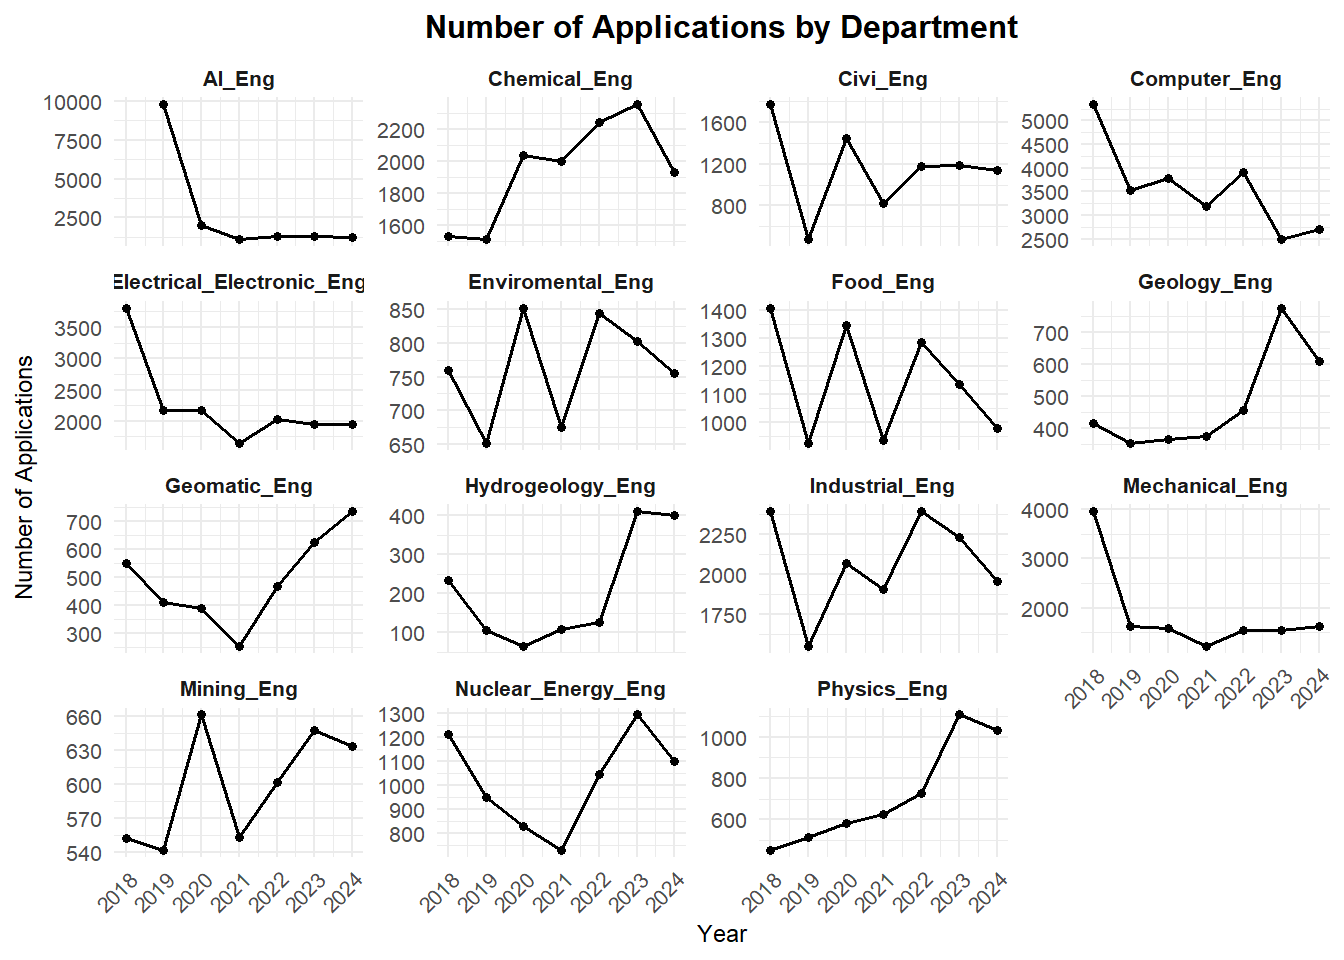
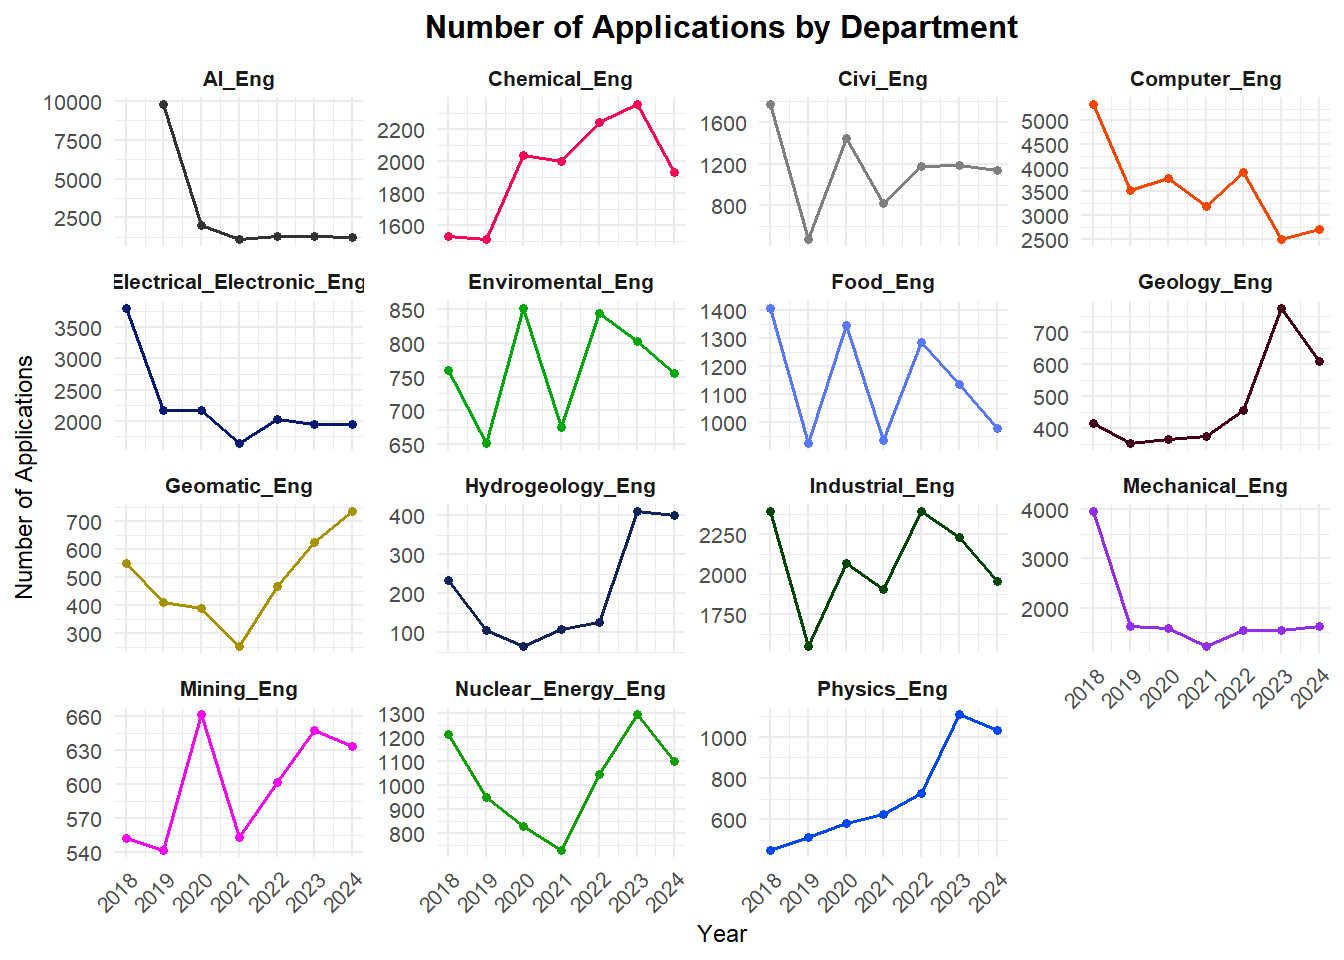
renklendirdim

diff --git a/docs/analysis.html b/docs/analysis.html
@@ -179,11 +179,14 @@ pre > code.sourceCode > span > a:first-child::before { text-decoration: underlin
 
 <p>About this site</p>
 <div class="cell">
+<details class="code-fold">
+<summary>Code</summary>
 <div class="sourceCode cell-code" id="cb1"><pre class="sourceCode r code-with-copy"><code class="sourceCode r"><span id="cb1-1"><a href="#cb1-1" aria-hidden="true" tabindex="-1"></a><span class="co"># Load necessary libraries</span></span>
 <span id="cb1-2"><a href="#cb1-2" aria-hidden="true" tabindex="-1"></a><span class="co"># Gerekli kütüphaneleri yükle</span></span>
 <span id="cb1-3"><a href="#cb1-3" aria-hidden="true" tabindex="-1"></a><span class="fu">library</span>(ggplot2)</span>
 <span id="cb1-4"><a href="#cb1-4" aria-hidden="true" tabindex="-1"></a><span class="fu">library</span>(readr)</span>
 <span id="cb1-5"><a href="#cb1-5" aria-hidden="true" tabindex="-1"></a><span class="fu">library</span>(dplyr)</span></code><button title="Copy to Clipboard" class="code-copy-button"><i class="bi"></i></button></pre></div>
+</details>
 <div class="cell-output cell-output-stderr">
 <pre><code>
 Attaching package: 'dplyr'</code></pre>
@@ -198,7 +201,10 @@ Attaching package: 'dplyr'</code></pre>
 
     intersect, setdiff, setequal, union</code></pre>
 </div>
+<details class="code-fold">
+<summary>Code</summary>
 <div class="sourceCode cell-code" id="cb5"><pre class="sourceCode r code-with-copy"><code class="sourceCode r"><span id="cb5-1"><a href="#cb5-1" aria-hidden="true" tabindex="-1"></a><span class="fu">library</span>(scales) <span class="co"># Logaritmik dönüşüm için</span></span></code><button title="Copy to Clipboard" class="code-copy-button"><i class="bi"></i></button></pre></div>
+</details>
 <div class="cell-output cell-output-stderr">
 <pre><code>
 Attaching package: 'scales'</code></pre>
@@ -208,8 +214,11 @@ Attaching package: 'scales'</code></pre>
 
     col_factor</code></pre>
 </div>
+<details class="code-fold">
+<summary>Code</summary>
 <div class="sourceCode cell-code" id="cb8"><pre class="sourceCode r code-with-copy"><code class="sourceCode r"><span id="cb8-1"><a href="#cb8-1" aria-hidden="true" tabindex="-1"></a><span class="co"># Veriyi yükle</span></span>
 <span id="cb8-2"><a href="#cb8-2" aria-hidden="true" tabindex="-1"></a>data <span class="ot">&lt;-</span> <span class="fu">read_csv</span>(<span class="st">"ya_veri.csv"</span>)</span></code><button title="Copy to Clipboard" class="code-copy-button"><i class="bi"></i></button></pre></div>
+</details>
 <div class="cell-output cell-output-stderr">
 <pre><code>Rows: 105 Columns: 15</code></pre>
 </div>
@@ -222,6 +231,8 @@ dbl (14): year, capacity, percentage_women, percentage_men, valedictorian, r...
 ℹ Use `spec()` to retrieve the full column specification for this data.
 ℹ Specify the column types or set `show_col_types = FALSE` to quiet this message.</code></pre>
 </div>
+<details class="code-fold">
+<summary>Code</summary>
 <div class="sourceCode cell-code" id="cb11"><pre class="sourceCode r code-with-copy"><code class="sourceCode r"><span id="cb11-1"><a href="#cb11-1" aria-hidden="true" tabindex="-1"></a><span class="co"># Veriyi filtrele ve sıralama bilgilerini numeric olarak düzenle</span></span>
 <span id="cb11-2"><a href="#cb11-2" aria-hidden="true" tabindex="-1"></a>data_filtered <span class="ot">&lt;-</span> data <span class="sc">%&gt;%</span></span>
 <span id="cb11-3"><a href="#cb11-3" aria-hidden="true" tabindex="-1"></a>  <span class="fu">select</span>(department, year, ranking) <span class="sc">%&gt;%</span></span>
@@ -279,6 +290,7 @@ dbl (14): year, capacity, percentage_women, percentage_men, valedictorian, r...
 <span id="cb11-55"><a href="#cb11-55" aria-hidden="true" tabindex="-1"></a>    <span class="at">plot.margin =</span> <span class="fu">margin</span>(<span class="dv">5</span>, <span class="dv">5</span>, <span class="dv">5</span>, <span class="dv">5</span>)  <span class="co"># Reduce plot margins</span></span>
 <span id="cb11-56"><a href="#cb11-56" aria-hidden="true" tabindex="-1"></a>  ) <span class="sc">+</span></span>
 <span id="cb11-57"><a href="#cb11-57" aria-hidden="true" tabindex="-1"></a>  <span class="fu">scale_x_continuous</span>(<span class="at">breaks =</span> <span class="fu">unique</span>(data_filtered<span class="sc">$</span>year))  <span class="co"># Ensure all years are shown</span></span></code><button title="Copy to Clipboard" class="code-copy-button"><i class="bi"></i></button></pre></div>
+</details>
 <div class="cell-output-display">
 <div>
 <figure class="figure">
@@ -288,6 +300,8 @@ dbl (14): year, capacity, percentage_women, percentage_men, valedictorian, r...
 </div>
 </div>
 <div class="cell">
+<details class="code-fold">
+<summary>Code</summary>
 <div class="sourceCode cell-code" id="cb12"><pre class="sourceCode r code-with-copy"><code class="sourceCode r"><span id="cb12-1"><a href="#cb12-1" aria-hidden="true" tabindex="-1"></a><span class="co"># Gerekli kütüphaneleri yükle</span></span>
 <span id="cb12-2"><a href="#cb12-2" aria-hidden="true" tabindex="-1"></a><span class="fu">library</span>(ggplot2)</span>
 <span id="cb12-3"><a href="#cb12-3" aria-hidden="true" tabindex="-1"></a><span class="fu">library</span>(readr)</span>
@@ -296,6 +310,7 @@ dbl (14): year, capacity, percentage_women, percentage_men, valedictorian, r...
 <span id="cb12-6"><a href="#cb12-6" aria-hidden="true" tabindex="-1"></a></span>
 <span id="cb12-7"><a href="#cb12-7" aria-hidden="true" tabindex="-1"></a><span class="co"># Veriyi yükle</span></span>
 <span id="cb12-8"><a href="#cb12-8" aria-hidden="true" tabindex="-1"></a>data <span class="ot">&lt;-</span> <span class="fu">read_csv</span>(<span class="st">"ya_veri.csv"</span>)</span></code><button title="Copy to Clipboard" class="code-copy-button"><i class="bi"></i></button></pre></div>
+</details>
 <div class="cell-output cell-output-stderr">
 <pre><code>Rows: 105 Columns: 15
 ── Column specification ────────────────────────────────────────────────────────
@@ -306,6 +321,8 @@ dbl (14): year, capacity, percentage_women, percentage_men, valedictorian, r...
 ℹ Use `spec()` to retrieve the full column specification for this data.
 ℹ Specify the column types or set `show_col_types = FALSE` to quiet this message.</code></pre>
 </div>
+<details class="code-fold">
+<summary>Code</summary>
 <div class="sourceCode cell-code" id="cb14"><pre class="sourceCode r code-with-copy"><code class="sourceCode r"><span id="cb14-1"><a href="#cb14-1" aria-hidden="true" tabindex="-1"></a><span class="co"># Veriyi filtrele ve sıralama bilgilerini numeric olarak düzenle</span></span>
 <span id="cb14-2"><a href="#cb14-2" aria-hidden="true" tabindex="-1"></a>data_filtered <span class="ot">&lt;-</span> data <span class="sc">%&gt;%</span></span>
 <span id="cb14-3"><a href="#cb14-3" aria-hidden="true" tabindex="-1"></a>  <span class="fu">select</span>(department, year, ranking) <span class="sc">%&gt;%</span></span>
@@ -362,6 +379,7 @@ dbl (14): year, capacity, percentage_women, percentage_men, valedictorian, r...
 <span id="cb14-54"><a href="#cb14-54" aria-hidden="true" tabindex="-1"></a>    <span class="at">plot.margin =</span> <span class="fu">margin</span>(<span class="dv">5</span>, <span class="dv">5</span>, <span class="dv">5</span>, <span class="dv">5</span>)  <span class="co"># Reduce plot margins</span></span>
 <span id="cb14-55"><a href="#cb14-55" aria-hidden="true" tabindex="-1"></a>  ) <span class="sc">+</span></span>
 <span id="cb14-56"><a href="#cb14-56" aria-hidden="true" tabindex="-1"></a>  <span class="fu">scale_x_continuous</span>(<span class="at">breaks =</span> <span class="fu">unique</span>(data<span class="sc">$</span>year))  <span class="co"># Ensure all years are shown</span></span></code><button title="Copy to Clipboard" class="code-copy-button"><i class="bi"></i></button></pre></div>
+</details>
 <div class="cell-output cell-output-stderr">
 <pre><code>Warning: Removed 1 row containing missing values or values outside the scale range
 (`geom_line()`).</code></pre>
@@ -379,10 +397,16 @@ dbl (14): year, capacity, percentage_women, percentage_men, valedictorian, r...
 </div>
 </div>
 <div class="cell">
+<details class="code-fold">
+<summary>Code</summary>
 <div class="sourceCode cell-code" id="cb17"><pre class="sourceCode r code-with-copy"><code class="sourceCode r"><span id="cb17-1"><a href="#cb17-1" aria-hidden="true" tabindex="-1"></a><span class="fu">library</span>(ggplot2)</span>
-<span id="cb17-2"><a href="#cb17-2" aria-hidden="true" tabindex="-1"></a><span class="fu">library</span>(scales) <span class="co"># For formatting</span></span>
-<span id="cb17-3"><a href="#cb17-3" aria-hidden="true" tabindex="-1"></a><span class="co"># Veriyi yükle</span></span>
-<span id="cb17-4"><a href="#cb17-4" aria-hidden="true" tabindex="-1"></a>data <span class="ot">&lt;-</span> <span class="fu">read_csv</span>(<span class="st">"ya_veri.csv"</span>)</span></code><button title="Copy to Clipboard" class="code-copy-button"><i class="bi"></i></button></pre></div>
+<span id="cb17-2"><a href="#cb17-2" aria-hidden="true" tabindex="-1"></a><span class="fu">library</span>(scales)</span>
+<span id="cb17-3"><a href="#cb17-3" aria-hidden="true" tabindex="-1"></a><span class="fu">library</span>(readr)</span>
+<span id="cb17-4"><a href="#cb17-4" aria-hidden="true" tabindex="-1"></a><span class="fu">library</span>(dplyr)</span>
+<span id="cb17-5"><a href="#cb17-5" aria-hidden="true" tabindex="-1"></a></span>
+<span id="cb17-6"><a href="#cb17-6" aria-hidden="true" tabindex="-1"></a><span class="co"># Load the dataset</span></span>
+<span id="cb17-7"><a href="#cb17-7" aria-hidden="true" tabindex="-1"></a>data <span class="ot">&lt;-</span> <span class="fu">read_csv</span>(<span class="st">"ya_veri.csv"</span>)</span></code><button title="Copy to Clipboard" class="code-copy-button"><i class="bi"></i></button></pre></div>
+</details>
 <div class="cell-output cell-output-stderr">
 <pre><code>Rows: 105 Columns: 15
 ── Column specification ────────────────────────────────────────────────────────
@@ -393,31 +417,50 @@ dbl (14): year, capacity, percentage_women, percentage_men, valedictorian, r...
 ℹ Use `spec()` to retrieve the full column specification for this data.
 ℹ Specify the column types or set `show_col_types = FALSE` to quiet this message.</code></pre>
 </div>
-<div class="sourceCode cell-code" id="cb19"><pre class="sourceCode r code-with-copy"><code class="sourceCode r"><span id="cb19-1"><a href="#cb19-1" aria-hidden="true" tabindex="-1"></a><span class="co"># Veriyi filtrele ve sıralama bilgilerini numeric olarak düzenle</span></span>
-<span id="cb19-2"><a href="#cb19-2" aria-hidden="true" tabindex="-1"></a>data_filtered <span class="ot">&lt;-</span> data <span class="sc">%&gt;%</span></span>
-<span id="cb19-3"><a href="#cb19-3" aria-hidden="true" tabindex="-1"></a>  <span class="fu">select</span>(department, year, ranking) <span class="sc">%&gt;%</span></span>
-<span id="cb19-4"><a href="#cb19-4" aria-hidden="true" tabindex="-1"></a>  <span class="fu">filter</span>(<span class="sc">!</span><span class="fu">is.na</span>(ranking)) <span class="sc">%&gt;%</span></span>
-<span id="cb19-5"><a href="#cb19-5" aria-hidden="true" tabindex="-1"></a>  <span class="fu">mutate</span>(<span class="at">ranking =</span> <span class="fu">as.numeric</span>(ranking))</span>
-<span id="cb19-6"><a href="#cb19-6" aria-hidden="true" tabindex="-1"></a></span>
-<span id="cb19-7"><a href="#cb19-7" aria-hidden="true" tabindex="-1"></a><span class="fu">ggplot</span>(<span class="at">data=</span>data, <span class="fu">aes</span>(<span class="at">x=</span>year, <span class="at">y=</span>number_of_applications, <span class="at">group=</span>department)) <span class="sc">+</span></span>
-<span id="cb19-8"><a href="#cb19-8" aria-hidden="true" tabindex="-1"></a>  <span class="fu">geom_line</span>(<span class="at">linewidth=</span><span class="fl">0.6</span>, <span class="at">color=</span><span class="st">"black"</span>) <span class="sc">+</span>  <span class="co"># Black lines for consistency</span></span>
-<span id="cb19-9"><a href="#cb19-9" aria-hidden="true" tabindex="-1"></a>  <span class="fu">geom_point</span>(<span class="at">size=</span><span class="fl">1.2</span>, <span class="at">color=</span><span class="st">"black"</span>) <span class="sc">+</span>  <span class="co"># Black points</span></span>
-<span id="cb19-10"><a href="#cb19-10" aria-hidden="true" tabindex="-1"></a>  <span class="fu">facet_wrap</span>(<span class="sc">~</span>department, <span class="at">scales=</span><span class="st">"free_y"</span>) <span class="sc">+</span>  <span class="co"># Create separate plots for each department</span></span>
-<span id="cb19-11"><a href="#cb19-11" aria-hidden="true" tabindex="-1"></a>  <span class="fu">labs</span>(</span>
-<span id="cb19-12"><a href="#cb19-12" aria-hidden="true" tabindex="-1"></a>    <span class="at">title=</span><span class="st">"Number of Applications by Department"</span>,</span>
-<span id="cb19-13"><a href="#cb19-13" aria-hidden="true" tabindex="-1"></a>    <span class="at">x=</span><span class="st">"Year"</span>,</span>
-<span id="cb19-14"><a href="#cb19-14" aria-hidden="true" tabindex="-1"></a>    <span class="at">y=</span><span class="st">"Number of Applications"</span></span>
-<span id="cb19-15"><a href="#cb19-15" aria-hidden="true" tabindex="-1"></a>  ) <span class="sc">+</span></span>
-<span id="cb19-16"><a href="#cb19-16" aria-hidden="true" tabindex="-1"></a>  <span class="fu">theme_minimal</span>(<span class="at">base_size =</span> <span class="dv">10</span>) <span class="sc">+</span>  <span class="co"># Compact layout</span></span>
-<span id="cb19-17"><a href="#cb19-17" aria-hidden="true" tabindex="-1"></a>  <span class="fu">theme</span>(</span>
-<span id="cb19-18"><a href="#cb19-18" aria-hidden="true" tabindex="-1"></a>    <span class="at">strip.text=</span><span class="fu">element_text</span>(<span class="at">size=</span><span class="dv">8</span>, <span class="at">face=</span><span class="st">"bold"</span>),  <span class="co"># Bold department labels</span></span>
-<span id="cb19-19"><a href="#cb19-19" aria-hidden="true" tabindex="-1"></a>    <span class="at">axis.text.x=</span><span class="fu">element_text</span>(<span class="at">size=</span><span class="dv">8</span>, <span class="at">angle=</span><span class="dv">45</span>, <span class="at">hjust=</span><span class="dv">1</span>),  <span class="co"># Smaller x-axis labels</span></span>
-<span id="cb19-20"><a href="#cb19-20" aria-hidden="true" tabindex="-1"></a>    <span class="at">axis.text.y=</span><span class="fu">element_text</span>(<span class="at">size=</span><span class="dv">8</span>),  <span class="co"># Smaller y-axis labels</span></span>
-<span id="cb19-21"><a href="#cb19-21" aria-hidden="true" tabindex="-1"></a>    <span class="at">axis.title=</span><span class="fu">element_text</span>(<span class="at">size=</span><span class="dv">9</span>),  <span class="co"># Smaller axis titles</span></span>
-<span id="cb19-22"><a href="#cb19-22" aria-hidden="true" tabindex="-1"></a>    <span class="at">plot.title=</span><span class="fu">element_text</span>(<span class="at">size=</span><span class="dv">12</span>, <span class="at">face=</span><span class="st">"bold"</span>, <span class="at">hjust=</span><span class="fl">0.5</span>),  <span class="co"># Compact title</span></span>
-<span id="cb19-23"><a href="#cb19-23" aria-hidden="true" tabindex="-1"></a>    <span class="at">plot.margin =</span> <span class="fu">margin</span>(<span class="dv">5</span>, <span class="dv">5</span>, <span class="dv">5</span>, <span class="dv">5</span>)  <span class="co"># Reduce plot margins</span></span>
-<span id="cb19-24"><a href="#cb19-24" aria-hidden="true" tabindex="-1"></a>  ) <span class="sc">+</span></span>
-<span id="cb19-25"><a href="#cb19-25" aria-hidden="true" tabindex="-1"></a>  <span class="fu">scale_x_continuous</span>(<span class="at">breaks =</span> <span class="fu">unique</span>(data<span class="sc">$</span>year))  <span class="co"># Ensure all years are shown</span></span></code><button title="Copy to Clipboard" class="code-copy-button"><i class="bi"></i></button></pre></div>
+<details class="code-fold">
+<summary>Code</summary>
+<div class="sourceCode cell-code" id="cb19"><pre class="sourceCode r code-with-copy"><code class="sourceCode r"><span id="cb19-1"><a href="#cb19-1" aria-hidden="true" tabindex="-1"></a><span class="co"># Plot with separate facets for each department and custom colors</span></span>
+<span id="cb19-2"><a href="#cb19-2" aria-hidden="true" tabindex="-1"></a><span class="fu">ggplot</span>(<span class="at">data=</span>data, <span class="fu">aes</span>(<span class="at">x=</span>year, <span class="at">y=</span>number_of_applications, <span class="at">group=</span>department, <span class="at">color=</span>department)) <span class="sc">+</span></span>
+<span id="cb19-3"><a href="#cb19-3" aria-hidden="true" tabindex="-1"></a>  <span class="fu">geom_line</span>(<span class="at">linewidth=</span><span class="fl">0.6</span>) <span class="sc">+</span>  <span class="co"># Custom colored lines</span></span>
+<span id="cb19-4"><a href="#cb19-4" aria-hidden="true" tabindex="-1"></a>  <span class="fu">geom_point</span>(<span class="at">size=</span><span class="fl">1.2</span>) <span class="sc">+</span>  <span class="co"># Custom colored points</span></span>
+<span id="cb19-5"><a href="#cb19-5" aria-hidden="true" tabindex="-1"></a>  <span class="fu">facet_wrap</span>(<span class="sc">~</span>department, <span class="at">scales=</span><span class="st">"free_y"</span>) <span class="sc">+</span>  <span class="co"># Create separate plots for each department</span></span>
+<span id="cb19-6"><a href="#cb19-6" aria-hidden="true" tabindex="-1"></a>  <span class="fu">scale_color_manual</span>(</span>
+<span id="cb19-7"><a href="#cb19-7" aria-hidden="true" tabindex="-1"></a>    <span class="at">values =</span> <span class="fu">c</span>(</span>
+<span id="cb19-8"><a href="#cb19-8" aria-hidden="true" tabindex="-1"></a>      <span class="st">"Chemical_Eng"</span> <span class="ot">=</span> <span class="st">"#f70753"</span>, </span>
+<span id="cb19-9"><a href="#cb19-9" aria-hidden="true" tabindex="-1"></a>      <span class="st">"Mining_Eng"</span> <span class="ot">=</span> <span class="st">"#f707eb"</span>, </span>
+<span id="cb19-10"><a href="#cb19-10" aria-hidden="true" tabindex="-1"></a>      <span class="st">"Geology_Eng"</span> <span class="ot">=</span> <span class="st">"#450015"</span>, </span>
+<span id="cb19-11"><a href="#cb19-11" aria-hidden="true" tabindex="-1"></a>      <span class="st">"Geomatic_Eng"</span> <span class="ot">=</span> <span class="st">"#a89200"</span>, </span>
+<span id="cb19-12"><a href="#cb19-12" aria-hidden="true" tabindex="-1"></a>      <span class="st">"Enviromental_Eng"</span> <span class="ot">=</span> <span class="st">"#00a80e"</span>, </span>
+<span id="cb19-13"><a href="#cb19-13" aria-hidden="true" tabindex="-1"></a>      <span class="st">"Industrial_Eng"</span> <span class="ot">=</span> <span class="st">"#004506"</span>, </span>
+<span id="cb19-14"><a href="#cb19-14" aria-hidden="true" tabindex="-1"></a>      <span class="st">"AI_Eng"</span> <span class="ot">=</span> <span class="st">"#333333"</span>, </span>
+<span id="cb19-15"><a href="#cb19-15" aria-hidden="true" tabindex="-1"></a>      <span class="st">"Hydrogeology_Eng"</span> <span class="ot">=</span> <span class="st">"#102457"</span>, </span>
+<span id="cb19-16"><a href="#cb19-16" aria-hidden="true" tabindex="-1"></a>      <span class="st">"Physics_Eng"</span> <span class="ot">=</span> <span class="st">"#0047fa"</span>, </span>
+<span id="cb19-17"><a href="#cb19-17" aria-hidden="true" tabindex="-1"></a>      <span class="st">"Computer_Eng"</span> <span class="ot">=</span> <span class="st">"#fa4700"</span>, </span>
+<span id="cb19-18"><a href="#cb19-18" aria-hidden="true" tabindex="-1"></a>      <span class="st">"Mechanical_Eng"</span> <span class="ot">=</span> <span class="st">"#912fed"</span>, </span>
+<span id="cb19-19"><a href="#cb19-19" aria-hidden="true" tabindex="-1"></a>      <span class="st">"Electrical_Electronic_Eng"</span> <span class="ot">=</span> <span class="st">"#031a73"</span>, </span>
+<span id="cb19-20"><a href="#cb19-20" aria-hidden="true" tabindex="-1"></a>      <span class="st">"Food_Eng"</span> <span class="ot">=</span> <span class="st">"#5778ff"</span>, </span>
+<span id="cb19-21"><a href="#cb19-21" aria-hidden="true" tabindex="-1"></a>      <span class="st">"Civil_Eng"</span> <span class="ot">=</span> <span class="st">"#ff57e9"</span>, </span>
+<span id="cb19-22"><a href="#cb19-22" aria-hidden="true" tabindex="-1"></a>      <span class="st">"Nuclear_Energy_Eng"</span> <span class="ot">=</span> <span class="st">"#149e08"</span>,</span>
+<span id="cb19-23"><a href="#cb19-23" aria-hidden="true" tabindex="-1"></a>      <span class="st">"Other"</span> <span class="ot">=</span> <span class="st">"#c2501b"</span>  <span class="co"># Default color for additional departments</span></span>
+<span id="cb19-24"><a href="#cb19-24" aria-hidden="true" tabindex="-1"></a>    )</span>
+<span id="cb19-25"><a href="#cb19-25" aria-hidden="true" tabindex="-1"></a>  ) <span class="sc">+</span></span>
+<span id="cb19-26"><a href="#cb19-26" aria-hidden="true" tabindex="-1"></a>  <span class="fu">labs</span>(</span>
+<span id="cb19-27"><a href="#cb19-27" aria-hidden="true" tabindex="-1"></a>    <span class="at">title=</span><span class="st">"Number of Applications by Department"</span>,</span>
+<span id="cb19-28"><a href="#cb19-28" aria-hidden="true" tabindex="-1"></a>    <span class="at">x=</span><span class="st">"Year"</span>,</span>
+<span id="cb19-29"><a href="#cb19-29" aria-hidden="true" tabindex="-1"></a>    <span class="at">y=</span><span class="st">"Number of Applications"</span></span>
+<span id="cb19-30"><a href="#cb19-30" aria-hidden="true" tabindex="-1"></a>  ) <span class="sc">+</span></span>
+<span id="cb19-31"><a href="#cb19-31" aria-hidden="true" tabindex="-1"></a>  <span class="fu">theme_minimal</span>(<span class="at">base_size =</span> <span class="dv">10</span>) <span class="sc">+</span>  <span class="co"># Compact layout</span></span>
+<span id="cb19-32"><a href="#cb19-32" aria-hidden="true" tabindex="-1"></a>  <span class="fu">theme</span>(</span>
+<span id="cb19-33"><a href="#cb19-33" aria-hidden="true" tabindex="-1"></a>    <span class="at">strip.text=</span><span class="fu">element_text</span>(<span class="at">size=</span><span class="dv">8</span>, <span class="at">face=</span><span class="st">"bold"</span>),  <span class="co"># Bold department labels</span></span>
+<span id="cb19-34"><a href="#cb19-34" aria-hidden="true" tabindex="-1"></a>    <span class="at">axis.text.x=</span><span class="fu">element_text</span>(<span class="at">size=</span><span class="dv">8</span>, <span class="at">angle=</span><span class="dv">45</span>, <span class="at">hjust=</span><span class="dv">1</span>),  <span class="co"># Smaller x-axis labels</span></span>
+<span id="cb19-35"><a href="#cb19-35" aria-hidden="true" tabindex="-1"></a>    <span class="at">axis.text.y=</span><span class="fu">element_text</span>(<span class="at">size=</span><span class="dv">8</span>),  <span class="co"># Smaller y-axis labels</span></span>
+<span id="cb19-36"><a href="#cb19-36" aria-hidden="true" tabindex="-1"></a>    <span class="at">axis.title=</span><span class="fu">element_text</span>(<span class="at">size=</span><span class="dv">9</span>),  <span class="co"># Smaller axis titles</span></span>
+<span id="cb19-37"><a href="#cb19-37" aria-hidden="true" tabindex="-1"></a>    <span class="at">plot.title=</span><span class="fu">element_text</span>(<span class="at">size=</span><span class="dv">12</span>, <span class="at">face=</span><span class="st">"bold"</span>, <span class="at">hjust=</span><span class="fl">0.5</span>),  <span class="co"># Compact title</span></span>
+<span id="cb19-38"><a href="#cb19-38" aria-hidden="true" tabindex="-1"></a>    <span class="at">plot.margin =</span> <span class="fu">margin</span>(<span class="dv">5</span>, <span class="dv">5</span>, <span class="dv">5</span>, <span class="dv">5</span>),  <span class="co"># Reduce plot margins</span></span>
+<span id="cb19-39"><a href="#cb19-39" aria-hidden="true" tabindex="-1"></a>    <span class="at">legend.position=</span><span class="st">"none"</span>  <span class="co"># Remove legend for better facet display</span></span>
+<span id="cb19-40"><a href="#cb19-40" aria-hidden="true" tabindex="-1"></a>  ) <span class="sc">+</span></span>
+<span id="cb19-41"><a href="#cb19-41" aria-hidden="true" tabindex="-1"></a>  <span class="fu">scale_x_continuous</span>(<span class="at">breaks =</span> <span class="fu">unique</span>(data<span class="sc">$</span>year))  <span class="co"># Ensure all years are shown</span></span></code><button title="Copy to Clipboard" class="code-copy-button"><i class="bi"></i></button></pre></div>
+</details>
 <div class="cell-output cell-output-stderr">
 <pre><code>Warning: Removed 1 row containing missing values or values outside the scale range
 (`geom_line()`).</code></pre>
